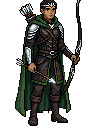
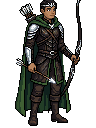
0.3.68: the armour of the portraits (991 A) and the male Strzelec Wyborowy's new face (990.1 B)
- The Nekromanta and the Licz wear the Mag's armour, hoods and robes; the
  Wielki Inkwizytor and the Pogromca Demonów the Wojownik's helmets and
  chainmail, with a shield in the off-hand. regearItem makes worn armour
  and off-hands anew too, both ways.
- The male Strzelec Wyborowy's face redrawn by PixelLab's inpainting, with
  its eight skin tones: tools/evolution-tones.py recolours a group of skin
  (the face) on its own range, so nothing else changes, and the forehead
  under the circlet, which the mask had missed, is in it.

Claude-Session: https://claude.ai/code/session_01EFZUMqpHps3KDRogHBzjf3

Changed region(s): [[0.4375, 0.0312, 0.5938, 0.1562]]

diff --git a/test/evolution-gear.test.js b/test/evolution-gear.test.js
@@ -18,14 +18,14 @@ import { useServer } from './helpers/server.js';
 const necromancer = content.evolutionsById.necromancer;
 
 describe('Ewolucje, które zmieniają broń (988)', () => {
-  test('the gear key: the Nekromanta and the Licz have the Mag\'s weapons and off-hands, the Cień\'s armour; the Truciciel and the Cień their own', () => {
+  test('the gear key: the Nekromanta and the Licz have the Mag\'s weapons, off-hands and armour (991 A); the Truciciel and the Cień their own', () => {
     assert.equal(gearKey('shadow', null, content), 'shadow');
     assert.equal(gearKey('shadow', 'poisoner', content), 'shadow');
     assert.equal(gearKey('shadow', 'necromancer', content), 'shadow:necromancer');
     assert.equal(gearKey('shadow', 'lich', content), 'shadow:lich');
-    assert.deepEqual(gearLists('shadow:necromancer', content), { weapons: ['staff'], offhands: ['focus'], armor: content.classesById.shadow.armor });
+    assert.deepEqual(gearLists('shadow:necromancer', content), { weapons: ['staff'], offhands: ['focus'], armor: content.classesById.mage.armor });
     const key = gearKey('shadow', 'lich', content);
-    for (const [base, usable] of [['staff', true], ['merlin-staff', true], ['grimoire', true], ['dagger', false], ['misericorde', false], ['tunic', true], ['robe', false], ['boots', true], ['ring', true]]) {
+    for (const [base, usable] of [['staff', true], ['merlin-staff', true], ['grimoire', true], ['dagger', false], ['misericorde', false], ['tunic', false], ['robe', true], ['hood', true], ['boots', true], ['ring', true]]) {
       assert.equal(canUse(base, key, content), usable, base);
     }
     assert.equal(canUse('dagger', 'shadow', content), true);
@@ -57,10 +57,32 @@ describe('Ewolucje, które zmieniają broń (988)', () => {
     assert.equal(focus.implicit.stat, 'intellect');
     // The same tier's numbers: the same statFactor and bonus range.
     assert.equal(focus.implicit.value, parry.implicit.value);
+    // Its kaftan a szata of the same place in the family (991 A), its hood a
+    // hood still.
+    const caftan = { ...generateItem({ baseId: 'caftan', level: 90, rarityId: 'rare' }, createRng('caftan'), content), upgrade: 2 };
+    const robe = regearItem(caftan, key, content);
+    assert.deepEqual([robe.base, robe.slot, robe.rarity, robe.upgrade, robe.affixes, robe.regeared], ['rune-cloak', 'chest', 'rare', 2, caftan.affixes, { from: 'caftan' }]);
+    assert.ok(robe.armor > 0);
     // What fits stays.
     assert.equal(regearItem(staff, key, content), null);
     assert.equal(regearItem(dagger, 'shadow', content), null);
-    assert.equal(regearItem(generateItem({ baseId: 'tunic', level: 90 }, createRng('tunic'), content), key, content), null);
+    assert.equal(regearItem(generateItem({ baseId: 'hood', level: 90 }, createRng('hood'), content), key, content), null);
+    assert.equal(regearItem(generateItem({ baseId: 'boots', level: 90 }, createRng('boots'), content), key, content), null);
+  });
+
+  test('991 A: the Wielki Inkwizytor\'s komża, kapuza and fokus made into a kolczuga, a hełm and a tarcza; back at a change of evolution', () => {
+    const key = gearKey('cleric', 'grand-inquisitor', content);
+    assert.equal(gearKey('cleric', 'demon-slayer', content), 'cleric:demon-slayer');
+    const made = (baseId) => regearItem(generateItem({ baseId, level: 120, rarityId: 'epic' }, createRng(baseId), content), key, content);
+    assert.deepEqual(['cassock', 'halo', 'astrolabe', 'processional-cross'].map((baseId) => made(baseId)?.base), ['gothic-armor', 'great-helm', 'jousting-shield', 'flamberge']);
+    // A tarcza is the Wojownik's too: it stays.
+    assert.equal(made('jousting-shield'), null);
+    // A change to the Arcykapłan, of the Kleryk's gear: the kolczuga and the
+    // hełm back to a komża and a kapuza, the tarcza stays.
+    const back = gearKey('cleric', 'high-priest', content);
+    const mail = made('cassock');
+    assert.equal(regearItem(mail, back, content).base, 'cassock');
+    assert.equal(regearItem(generateItem({ baseId: 'jousting-shield', level: 120 }, createRng('shield'), content), back, content), null);
   });
 
   test('every point of Zręczność is Intelekt, which hits with the kostur by its share and gives the speed and dodge', () => {
@@ -89,26 +111,30 @@ describe('Ewolucje, które zmieniają broń (988)', () => {
 });
 
 describe('Kto nosi jaką broń (988; the author, 15.11.2026: „tak logicznie to przemyśl żeby sie zgadzalo wszystko u każdej ewolucji i klasy”)', () => {
-  test('every form wears its class\'s gear but the Nekromanta and the Licz, with the Mag\'s weapons and off-hands, and the Wielki Inkwizytor and the Pogromca Demonów, with the Wojownik\'s weapons', () => {
+  test('every form wears its class\'s gear but the Nekromanta and the Licz, with the Mag\'s, and the Wielki Inkwizytor and the Pogromca Demonów, with the Wojownik\'s (991 A)', () => {
     const mage = content.classesById.mage;
     const warrior = content.classesById.warrior;
     for (const form of content.evolutions) {
       const lists = gearLists(gearKey(form.classId, form.id, content), content);
       const own = content.classesById[form.classId];
-      if (['necromancer', 'lich'].includes(form.id)) assert.deepEqual(lists, { weapons: mage.weapons, offhands: mage.offhands, armor: own.armor }, form.id);
-      else if (['grand-inquisitor', 'demon-slayer'].includes(form.id)) assert.deepEqual(lists, { weapons: warrior.weapons, offhands: own.offhands, armor: own.armor }, form.id);
+      if (['necromancer', 'lich'].includes(form.id)) assert.deepEqual(lists, { weapons: mage.weapons, offhands: mage.offhands, armor: mage.armor }, form.id);
+      else if (['grand-inquisitor', 'demon-slayer'].includes(form.id)) assert.deepEqual(lists, { weapons: warrior.weapons, offhands: warrior.offhands, armor: warrior.armor }, form.id);
       else assert.deepEqual(lists, { weapons: own.weapons, offhands: own.offhands, armor: own.armor }, form.id);
     }
   });
 
   test('who else wears a kind, and who of its classes does not: on the cards, in the Warsztat and the Encyklopedia', () => {
     assert.deepEqual(gearWearers('staff', content), { forms: ['necromancer', 'lich'], without: [] });
-    assert.deepEqual(gearWearers('focus', content), { forms: ['necromancer', 'lich'], without: [] });
+    assert.deepEqual(gearWearers('focus', content), { forms: ['necromancer', 'lich'], without: ['grand-inquisitor', 'demon-slayer'] });
     assert.deepEqual(gearWearers('dagger', content), { forms: [], without: ['necromancer', 'lich'] });
     assert.deepEqual(gearWearers('misericorde', content), { forms: [], without: ['necromancer', 'lich'] });
     assert.deepEqual(gearWearers('sword', content), { forms: ['grand-inquisitor', 'demon-slayer'], without: [] });
     assert.deepEqual(gearWearers('aspergillum', content), { forms: [], without: ['grand-inquisitor', 'demon-slayer'] });
-    for (const family of ['shield', 'bow', 'quiver', 'tunic', 'robe', 'hood']) assert.deepEqual(gearWearers(family, content), { forms: [], without: [] }, family);
+    assert.deepEqual(gearWearers('robe', content), { forms: ['necromancer', 'lich'], without: [] });
+    assert.deepEqual(gearWearers('tunic', content), { forms: [], without: ['necromancer', 'lich'] });
+    for (const family of ['helmet', 'chainmail']) assert.deepEqual(gearWearers(family, content), { forms: ['grand-inquisitor', 'demon-slayer'], without: [] }, family);
+    for (const family of ['cowl', 'surplice']) assert.deepEqual(gearWearers(family, content), { forms: [], without: ['grand-inquisitor', 'demon-slayer'] }, family);
+    for (const family of ['shield', 'bow', 'quiver', 'hood']) assert.deepEqual(gearWearers(family, content), { forms: [], without: [] }, family);
     const card = (baseId) => itemView(generateItem({ baseId, level: 30 }, createRng(baseId), content), content);
     const staff = card('staff');
     assert.deepEqual([staff.family, staff.classNames, staff.formNames, staff.exceptNames], ['staff', ['Mag'], ['Nekromanta', 'Licz'], undefined]);

diff --git a/src/engine/items.js b/src/engine/items.js
@@ -206,14 +206,15 @@ function fitsGear(baseId, key, content) {
   return GEAR.some((list) => lists[/** @type {'weapons' | 'offhands' | 'armor'} */ (list)].includes(family));
 }
 
-// A worn weapon or off-hand of a family its wearer's gear does not use, made
-// into the gear's own (988: a form taking another class's gear, e.g. the
-// Nekromanta's kostury): a weapon into the gear's first weapon family, an
-// off-hand into its first off-hand family, at the same place in the family
-// (the same class level), with its rarity, level, upgrade, gem, affixes and
-// imbue kept, and its draw of the base's bonus kept as a share of the
-// bonus's range. `regeared` keeps the base it was. Null when it fits, or
-// when it is neither a weapon nor an off-hand.
+// A worn weapon, off-hand or armour of a family its wearer's gear does not
+// use, made into the gear's own (988: a form taking another class's gear,
+// e.g. the Nekromanta's kostury; 991 A: its szaty too): a weapon into the
+// gear's first weapon family, an off-hand into its first off-hand family,
+// armour into the gear's armour of the same slot, at the same place in the
+// family (the same class level), with its rarity, level, upgrade, gem,
+// affixes and imbue kept, and its draw of the base's bonus kept as a share
+// of the bonus's range. `regeared` keeps the base it was. Null when it fits,
+// or when the gear has nothing of its slot.
 /**
  * @param {Item} item
  * @param {string} key
@@ -221,9 +222,13 @@ function fitsGear(baseId, key, content) {
  * @returns {Item | null}
  */
 export function regearItem(item, key, content) {
-  if ((item.slot !== 'weapon' && item.slot !== 'offhand') || canUse(item.base, key, content)) return null;
+  if (canUse(item.base, key, content)) return null;
   const lists = gearLists(key, content);
-  const family = (item.slot === 'weapon' ? lists.weapons : lists.offhands)[0];
+  // A weapon or an off-hand into the gear's first of its kind, armour into
+  // the gear's armour of its slot (991 A: a Nekromanta's kaftan into a
+  // szata, an Inkwizytor's komża into a kolczuga).
+  const family =
+    item.slot === 'weapon' ? lists.weapons[0] : item.slot === 'offhand' ? lists.offhands[0] : lists.armor.find((one) => content.basesById[one]?.slot === item.slot);
   const old = content.basesById[item.base];
   if (!family || !old) return null;
   /** @param {string} id */

diff --git a/tools/evolution-tones.py b/tools/evolution-tones.py
@@ -12,9 +12,15 @@
 #                    is skin, the dark outline is not. "hue", "sat",
 #                    "satmax" and "val" (here or on one outline) say what
 #                    warm is, so hair, robes and fire stay out;
-#   not_boxes, not_pixels, pixels   what the rules above get wrong.
+#   not_boxes, not_pixels, pixels   what the rules above get wrong;
+#   groups           skin recoloured on its own, between its own darkest and
+#                    lightest colour (each group: a palette and boxes as
+#                    above), e.g. a face redrawn later with darker shadows
+#                    than the rest of the skin (marksman-male, 990.1 B), so
+#                    the rest keeps its colours in every tone.
 # Each skin colour keeps its place between the darkest and the lightest skin
-# colour of the portrait, on the tone's ramp from shadow to light.
+# colour of the portrait (or of its group), on the tone's ramp from shadow to
+# light.
 #
 # A portrait drawn in another skin than the plain one (the Widmo-mężczyzna's
 # grey: DECISIONS.md, "Kosmetyki i pary portretów: odpowiedzi autora
@@ -90,15 +96,23 @@ def main():
         source = os.path.join(ROOT, cfg['source']) if 'source' in cfg else os.path.join(PORTRAITS, name + '.png')
         im = Image.open(source).convert('RGBA')
         skin = skin_of(im, cfg)
-        colours = {im.getpixel(p)[:3] for p in skin}
-        low, high = min(map(lum, colours)), max(map(lum, colours))
+        groups = [skin_of(im, group) for group in cfg.get('groups', [])]
+        for group in groups:
+            skin -= group
+        # Each part of the skin with the range of its own colours.
+        parts = []
+        for pixels in [skin, *groups]:
+            colours = {im.getpixel(p)[:3] for p in pixels}
+            if colours:
+                parts.append((pixels, min(map(lum, colours)), max(map(lum, colours))))
 
         def recoloured(ramp):
             out = im.copy()
             px = out.load()
-            for x, y in skin:
-                c = px[x, y]
-                px[x, y] = (*on_ramp(ramp, (lum(c[:3]) - low) / (high - low or 1)), c[3])
+            for pixels, low, high in parts:
+                for x, y in pixels:
+                    c = px[x, y]
+                    px[x, y] = (*on_ramp(ramp, (lum(c[:3]) - low) / (high - low or 1)), c[3])
             return out
 
         for tone in tones:
@@ -107,10 +121,10 @@ def main():
             recoloured([rgb(c) for c in cfg['drawnRamp']]).save(os.path.join(PORTRAITS, name + '.png'), optimize=True)
         if mask_dir:
             view = im.copy()
-            for p in skin:
+            for p in skin.union(*groups):
                 view.putpixel(p, (255, 0, 255, 255))
             view.save(os.path.join(mask_dir, name + '-mask.png'))
-        print(name, len(skin), 'pixels')
+        print(name, len(skin) + sum(map(len, groups)), 'pixels')
 
 
 if __name__ == '__main__':

diff --git a/DECISIONS.md b/DECISIONS.md
@@ -3349,7 +3349,7 @@ Autor: „Licz i Nekromanta tak jak pewnie inne ewolucje powinny zaczac uzywac i
    - `autoPoints` to rozkład „Rozdaj według klasy”, a jego największa część to główna statystyka.
    - `weaponDamage` to część obrażeń broni w rękach tej formy.
    - Sprawdzanie, co postać może założyć, łup, Koło Fortuny, Targowisko i skrzynie idą według formy (`gearKey`).
-2. **Nekromanta i Licz** (988.1 A): kostury i fokusy Maga, zbroja Cienia.
+2. **Nekromanta i Licz** (988.1 A): kostury i fokusy Maga, zbroja Cienia; od 0.3.68 także zbroja Maga, kaptury i szaty, jak na portretach (991 A).
    - Każdy punkt Zręczności liczy się jako Intelekt, więc pierścienie i zbroje z Zręcznością dalej działają.
    - We wzroście Nekromanty +4 Intelektu (zamiast +3 Zręczności i +1 Intelektu), Licza tak samo. „Rozdaj według klasy” daje Intelekt.
    - Kostur bije u nich 80% tego, co u Maga. Bez tego byli wyraźnie mocniejsi niż dziś (Licz 80% pojedynków na Arenie), bo zostaje im szybkość, unik i HP Cienia, a kostur bije magią, bez uniku.
@@ -3357,12 +3357,12 @@ Autor: „Licz i Nekromanta tak jak pewnie inne ewolucje powinny zaczac uzywac i
 4. **Strzelec Burzy, Władca Piorunów i Wybraniec Peruna** (988.3 A): łuki biją Intelektem, każdy punkt Zręczności liczy się jako Intelekt. We wzroście Intelekt zamiast Zręczności (+3, +5 i +6). „Rozdaj według klasy” daje Intelekt.
 5. **Łowca, Mistrz Łowów i Władca Puszczy** (988.4 A): łuki biją Siłą, każdy punkt Zręczności liczy się jako Siła. We wzroście Siła zamiast Zręczności (+3, +4 i +5). „Rozdaj według klasy” daje Siłę.
 6. **Inkwizytor** (988.5 A): kropidła i kadzielnice. Jego +1 Siły na poziom klasy to teraz +1 Intelektu.
-7. **Wielki Inkwizytor i Pogromca Demonów** (988.5 A): miecze i topory Wojownika, tarcza i fokus zostają.
+7. **Wielki Inkwizytor i Pogromca Demonów** (988.5 A): miecze i topory Wojownika, tarcza i fokus zostają; od 0.3.68 hełmy i kolczugi Wojownika, a w drugiej ręce tylko tarcza, jak na portretach (991 A).
    - Każdy punkt Intelektu liczy się jako Siła. We wzroście Siła zamiast Intelektu (+4 i +4). „Rozdaj według klasy” daje Siłę.
    - Miecze i topory biją u nich Sakrum, jak kropidła (`gear.element`). Bez tego Żarliwość i Święty ogień przestałyby działać na ich ciosy. Na portretach mają młot i miecz w świętym ogniu.
    - Biją 80% (Wielki Inkwizytor) i 75% (Pogromca Demonów) swoich obrażeń, bo miecze i topory są mocniejsze od kropideł.
 8. **Noszona broń** (988.6 A):
-   - Broń i druga ręka, których forma nie używa, zmieniają się w przedmiot jej rodzaju. Dzieje się to raz, przy pierwszym wczytaniu postaci po zmianie i po każdej ewolucji w taką formę (`regearItem`).
+   - Broń i druga ręka, których forma nie używa, zmieniają się w przedmiot jej rodzaju. Dzieje się to raz, przy pierwszym wczytaniu postaci po zmianie i po każdej ewolucji w taką formę (`regearItem`). Od 0.3.68 tak samo zbroja: kaftan Nekromanty staje się szatą, komża i kapuza Inkwizytora kolczugą i hełmem, a jego fokus tarczą (991 A).
    - Nowy przedmiot ma to samo miejsce w rodzinie (ten sam poziom klasy), rzadkość, poziom, ulepszenie, kamień, zaklęcie i afiksy, a wylosowany dodatek bazy jako tę samą część jej zakresu. Sztylet staje się kosturem, mizerykordia fokusem, kropidło mieczem.
    - Rzeczy w plecaku zostają, jakie były.
    - Działa też w drugą stronę (od 0.3.65): po zmianie ewolucji u Pustelnika na formę z bronią swojej klasy (np. z Nekromanty na Królobójcę) kostur i fokus wracają do sztyletu i mizerykordii z tymi samymi cechami. Autor: „Przy ewolucji w te odmienione formy też broń i druga ręka powinny sie przekształcać automatycznie, żeby postać nie zostawała bez broni”. Przy samej ewolucji broń zmienia się od razu, już w odpowiedzi na wybór ewolucji (`test/evolution-gear.test.js`).
@@ -3378,10 +3378,11 @@ Autor: „Licz i Nekromanta tak jak pewnie inne ewolucje powinny zaczac uzywac i
     - Do 0.3.65 plecak, Targowisko, Wymiana i Przechowalnia liczyły to po klasie sprzed ewolucji: Nekromanta widział kostur jako „nie dla Twojej klasy”, a sztylet z aktywnym „Załóż”, którego serwer odmawiał.
     - Teraz postać przychodzi z rodzajami broni, drugiej ręki i zbroi swojej formy (`gear`), a przedmiot ze swoim rodzajem (`family`), i strony porównują jedno z drugim (`classFits` w `src/client/screens/character.js`).
 13. **Kto nosi jaki przedmiot** (od 0.3.67). Autor: „niech Nekromanta czy jego dalsze ewolucje mogą nosić tylko to co Mag za broń i w ogóle tak logicznie to przemyśl żeby sie zgadzalo wszystko u każdej ewolucji i klasy”.
-    - Przegląd wszystkich klas i form. Każda forma nosi broń, drugą rękę i zbroję swojej klasy, z dwoma wyjątkami. Nekromanta i Licz noszą broń i drugą rękę Maga (kostury i fokusy, jak na portretach) i zbroję Cienia. Wielki Inkwizytor i Pogromca Demonów noszą broń Wojownika (miecze i topory; młot z portretu to topór, jak Czekan czy Nadziak), a drugą rękę i zbroję Kleryka. Strzelec Burzy i Łowca zostają przy łukach, bije nimi tylko inna statystyka.
+    - Przegląd wszystkich klas i form. Każda forma nosi broń, drugą rękę i zbroję swojej klasy, z dwoma wyjątkami. Nekromanta i Licz noszą cały ekwipunek Maga: kostury, fokusy, kaptury i szaty, jak na portretach. Wielki Inkwizytor i Pogromca Demonów noszą broń i zbroję Wojownika: miecze i topory (młot z portretu to topór, jak Czekan czy Nadziak), hełmy, kolczugi i tarcze. Zbroja jest taka od 0.3.68 (991 A); do 0.3.67 była Cienia i Kleryka. Strzelec Burzy i Łowca zostają przy łukach, bije nimi tylko inna statystyka.
     - Karty przedmiotów mówią to samo: „Dla klas: Mag, Nekromanta, Licz” przy kosturze i fokusie, „Dla klas: Wojownik, Wielki Inkwizytor, Pogromca Demonów” przy mieczu i toporze, a przy sztylecie i mizerykordii „Dla klasy: Cień” z drugą linią „Nie dla: Nekromanta, Licz” (przy kropidle: „Nie dla: Wielki Inkwizytor, Pogromca Demonów”). Tak samo w Encyklopedii i na liście wzorów Warsztatu (`gearWearers` w `src/engine/gear.js`).
     - Warsztat podsuwa najpierw wzór broni formy, np. Nekromancie kostur, a nie sztylet Cienia.
     - Narzędzie symulacji (`tools/difficulty-sim.mjs`) bierze dla formy z własnym ekwipunkiem także jej zbroję.
+    - Liczby zbroi z portretów (991 A, `tools/pvp-arena-sim.mjs`, `tools/class-balance-sim.mjs`): na Arenie Pogromca Demonów wygrywa 32% pojedynków zamiast 28%, Licz 60% zamiast 61%, Nekromanta 58% zamiast 59%. Na wyprawach prawie bez zmian: Wielki Inkwizytor przyjmuje kilka punktów procentowych mniej obrażeń.
 
 ## Zwój Niepamięci (989; 15.11.2026, od 0.3.64)
 
@@ -3475,6 +3476,20 @@ Autor: „Niech oznaczanie na czacie będzie możliwe też po nazwie konta”.
 1. „@” i nazwa konta oznacza postać, którą to konto teraz gra, na tych samych zasadach co imię postaci: tylko ten, kto czyta kanał, nigdy własne konto ani ktoś, kto ukrył piszącego, najwyżej 5 oznaczeń w wiadomości. Wielkość liter bez znaczenia (`src/server/mentions.js`).
 2. Postać oznaczona w jednej wiadomości i nazwą konta, i imieniem liczy się raz.
 3. Podpowiedzi pod polem wiadomości pokazują też nazwy kont piszących.
+
+## Twarz Strzelca Wyborowego (990.1 B; 15.11.2026, od 0.3.68)
+
+Autor: „twarz w portrecie męskiego Strzelca Wyborowego jest brzydka i powinna podlegac poprawkom, wyglada jakby nie miał oczu i miał zniekształconą twarz”. Autor wybrał 990.1 B.
+
+1. **Jak:** PixelLab przerysował samą twarz: brwi, oczy, nos i usta (`marksman-male-face`, maska 13 × 10 pikseli, `art/inputs/portraits/`). Opaska, włosy, podbródek i strój są co do piksela takie same. Z czterech wersji dwie miały czyste oczy; autor wybrał B. Jeden szary piksel na obrysie prawego policzka dostał kolor obrysu.
+2. **Odcienie skóry:** osiem odcieni ma nową twarz. Twarz ma ciemniejsze cienie niż reszta skóry, więc w `tools/evolution-tones.json` jest osobną grupą z własną skalą (`groups` w `tools/evolution-tones.py`). Dzięki temu poza twarzą żaden piksel odcieni się nie zmienił.
+3. **Pasek czoła:** autor zauważył na ciemnym odcieniu jasny pasek skóry pod opaską: pole skóry tego portretu zaczynało się wiersz za nisko i od początku go pomijało. Grupa twarzy obejmuje teraz czoło, cień przy uchu i cień pod brodą, a sprawdzenie wszystkich ośmiu odcieni nie znajduje na głowie żadnego koloru skóry sprzed przebarwienia.
+4. **Inne portrety:** ten sam skan znalazł podobne jasne piksele przy skórze w innych portretach (np. pasek przy obojczyku Czempiona Areny i linia na nodze Berserkerki w ciemnym odcieniu). To osobne zadanie.
+
+## Wersja 0.3.68 (15.11.2026): zbroja jak na portretach i nowa twarz Strzelca Wyborowego
+
+1. Nekromanta i Licz noszą zbroję Maga, a Wielki Inkwizytor i Pogromca Demonów zbroję i tarcze Wojownika; noszona zbroja i fokus zmieniły się same (991 A). Zob. „Ewolucje, które zmieniają broń”, punkty 2, 7, 8 i 13.
+2. Nowa twarz męskiego Strzelca Wyborowego, z ośmioma odcieniami skóry (990.1 B). Zob. „Twarz Strzelca Wyborowego”.
 
 ## Wersja 0.3.67 (15.11.2026): kto nosi jaki przedmiot, razem z ewolucjami
 
